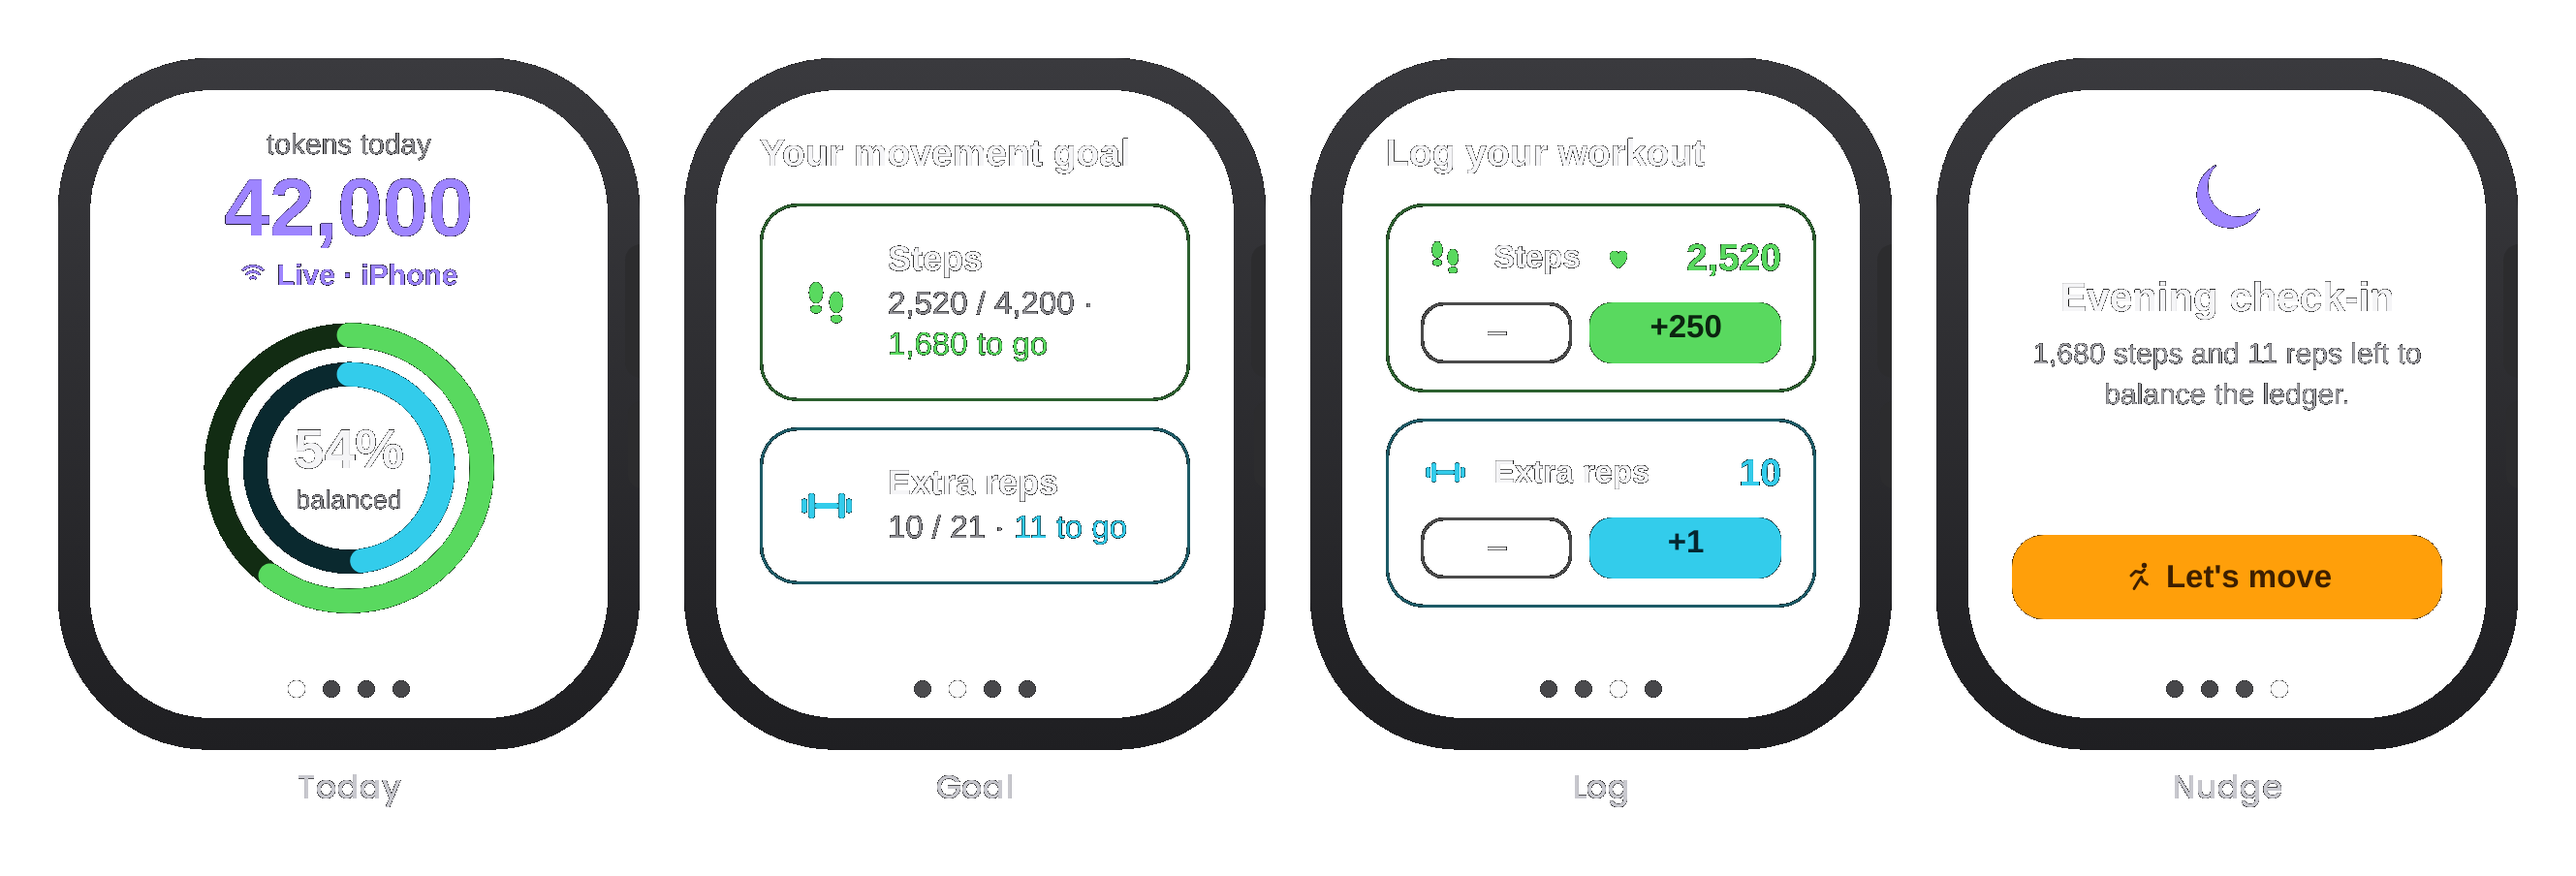
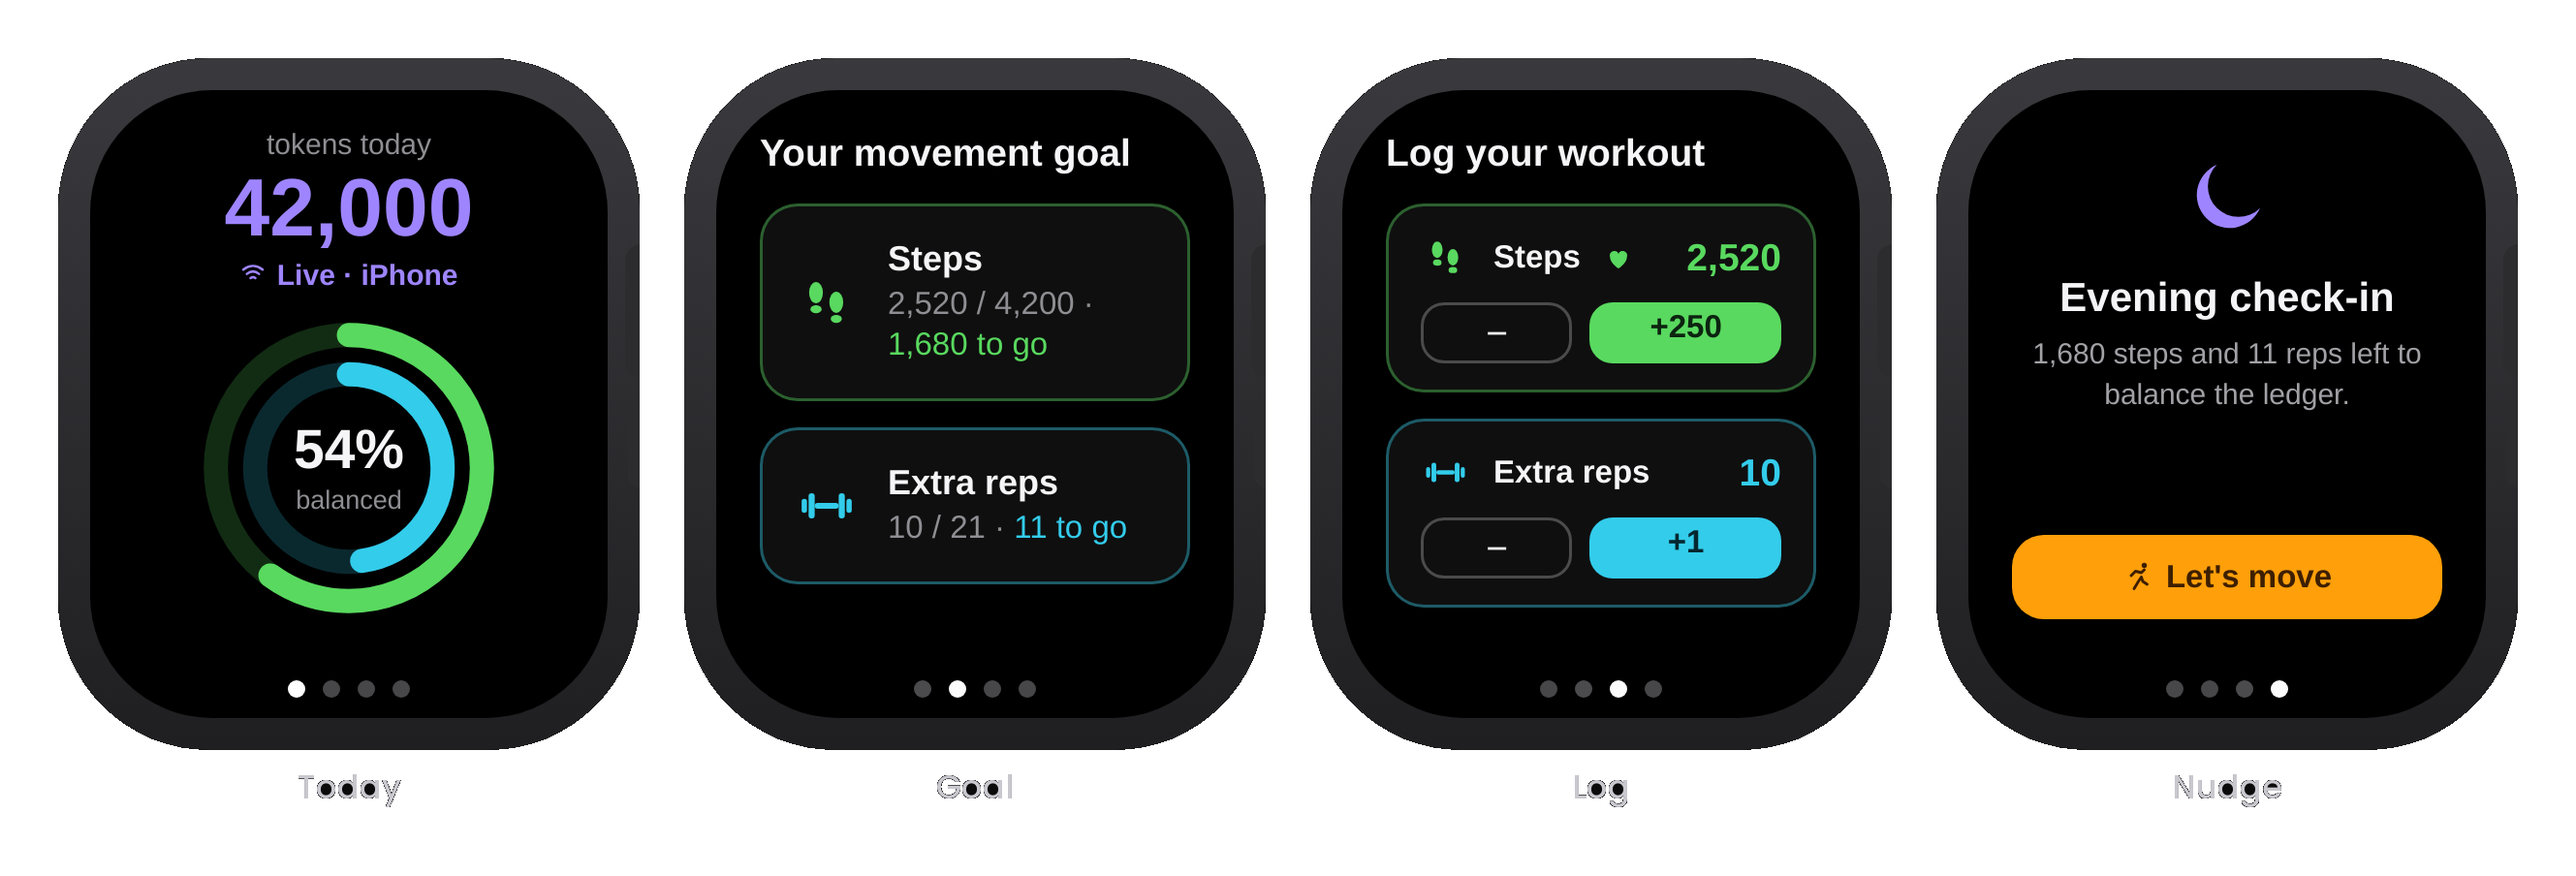
Preserve watch screen black backgrounds and fix hero image corner mismatch
The swatch background had been keyed to transparency using a global color
threshold, which also wiped out the intentional black screens inside each
watch card. Rework the transparency using a border-connected flood fill so
only the outer canvas is cleared, leaving each watch's own black display
intact in both themes.

Also switch both image containers to var(--color-bg) instead of a
hardcoded black, so the container matches the page background exactly —
fixing a visible rectangular seam at the iPhone image's rounded corners in
dark mode.

diff --git a/styles.css b/styles.css
@@ -588,17 +588,12 @@ html[data-theme="dark"] .hero-tools-icons img[src$=".png"]{ filter: invert(1); }
 .ai-hero-copy h1{ margin-bottom: var(--sp-8); }
 
 .page-ai-playground .cs-image{
-  background:#fff;
+  background: var(--color-bg);
   border:none;
   padding:0;
   border-radius:0;
 }
 .page-ai-playground .cs-image img{ border-radius:0; }
-
-html[data-theme="dark"] .page-ai-playground .ai-hero-media,
-html[data-theme="dark"] .page-ai-playground .cs-image{
-  background:#000;
-}
 
 .cs-section{
   padding-top: var(--sp-16);
